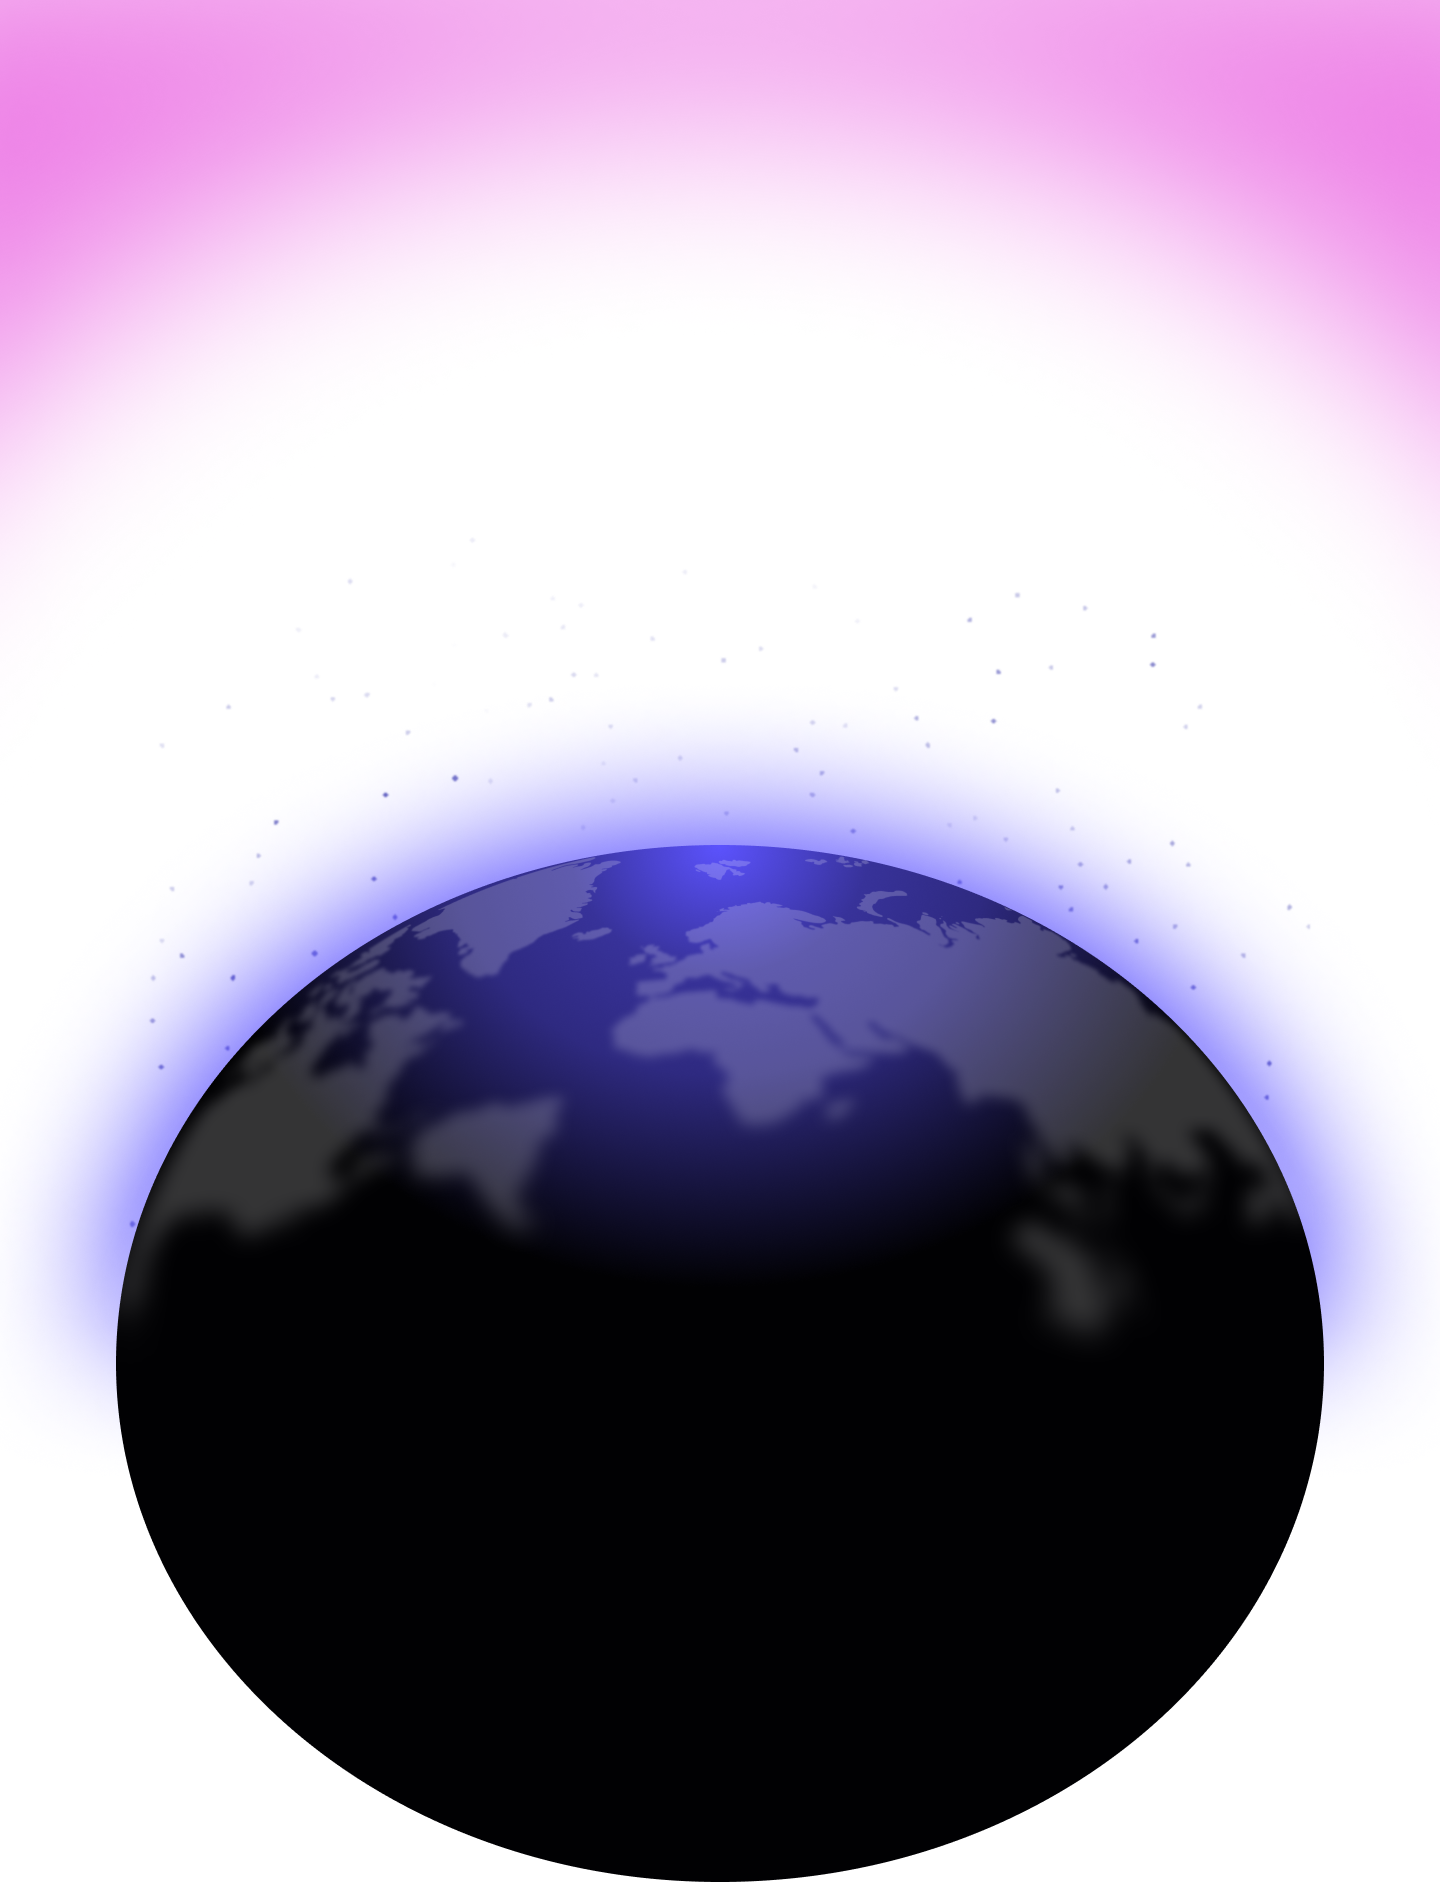
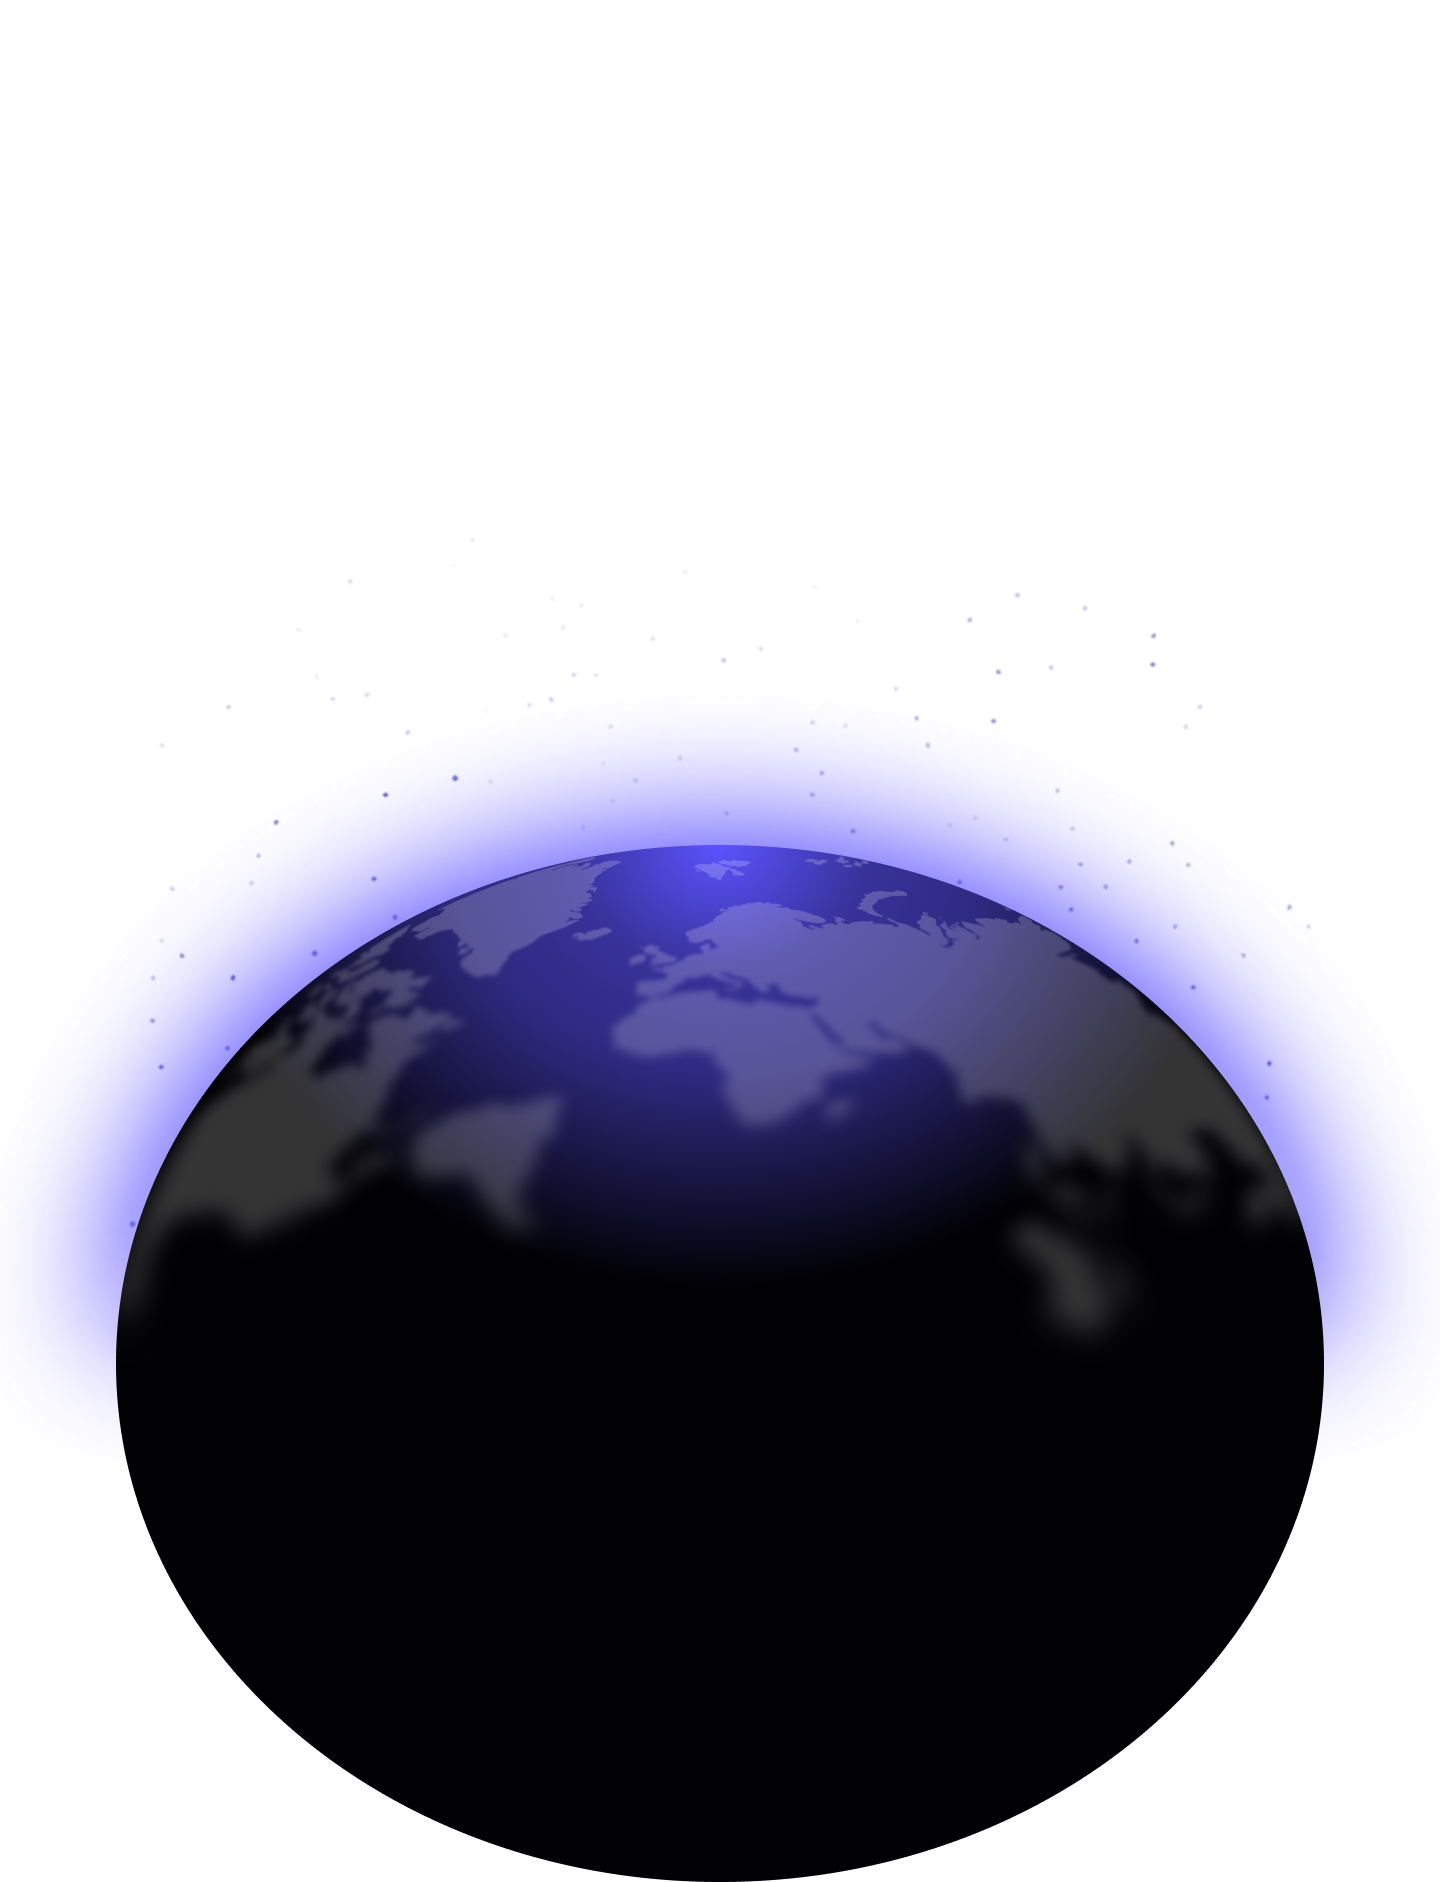
Add hero section with job search to homepage
- Create Hero component with globe background, glow/starfield effects
- Add job title and location search form that routes to /jobs with query params
- Add trending role chips and animated stats cards (jobs, companies, seekers)
- Render Hero from the homepage and update globe asset

Changed region(s): [[0.0, 0.0, 1.0, 0.2774]]

diff --git a/src/app/component/Hero.jsx b/src/app/component/Hero.jsx
@@ -1,0 +1,271 @@
+"use client";
+
+import Image from "next/image";
+import { useRouter } from "next/navigation";
+import { useState } from "react";
+
+const trendingRoles = ["Product Designer", "AI Engineering", "Dev-ops Engineer"];
+
+const stats = [
+  {
+    value: "50K",
+    label: "Active Jobs",
+    icon: (
+      <svg width="18" height="18" viewBox="0 0 24 24" fill="none" stroke="currentColor" strokeWidth="1.8" strokeLinecap="round" strokeLinejoin="round" aria-hidden="true">
+        <path d="M21 15a2 2 0 0 1-2 2H7l-4 4V5a2 2 0 0 1 2-2h14a2 2 0 0 1 2 2z" />
+      </svg>
+    ),
+  },
+  {
+    value: "12K",
+    label: "Companies",
+    icon: (
+      <svg width="18" height="18" viewBox="0 0 24 24" fill="none" stroke="currentColor" strokeWidth="1.8" strokeLinecap="round" strokeLinejoin="round" aria-hidden="true">
+        <rect x="3" y="7" width="18" height="13" rx="2" />
+        <path d="M8 7V5a2 2 0 0 1 2-2h4a2 2 0 0 1 2 2v2" />
+        <path d="M8 12v4M12 12v4M16 12v4" />
+      </svg>
+    ),
+  },
+  {
+    value: "2M",
+    label: "Job Seekers",
+    icon: (
+      <svg width="18" height="18" viewBox="0 0 24 24" fill="none" stroke="currentColor" strokeWidth="1.8" strokeLinecap="round" aria-hidden="true">
+        <circle cx="11" cy="11" r="7" />
+        <path d="m21 21-4.3-4.3" />
+      </svg>
+    ),
+  },
+  {
+    value: "97%",
+    label: "Satisfaction Rate",
+    icon: (
+      <svg width="18" height="18" viewBox="0 0 24 24" fill="none" stroke="currentColor" strokeWidth="1.8" strokeLinecap="round" strokeLinejoin="round" aria-hidden="true">
+        <path d="m12 3 2.7 5.5 6.1.9-4.4 4.3 1 6.1-5.4-2.9-5.4 2.9 1-6.1L3.2 9.4l6.1-.9L12 3Z" />
+      </svg>
+    ),
+  },
+];
+
+const starField = {
+  backgroundImage:
+    "radial-gradient(1.5px 1.5px at 20px 30px, rgba(255,255,255,0.45), transparent), radial-gradient(1.5px 1.5px at 130px 90px, rgba(255,255,255,0.35), transparent), radial-gradient(1px 1px at 220px 50px, rgba(255,255,255,0.4), transparent), radial-gradient(1.5px 1.5px at 310px 120px, rgba(255,255,255,0.3), transparent), radial-gradient(1px 1px at 90px 160px, rgba(255,255,255,0.35), transparent)",
+  backgroundSize: "360px 200px",
+};
+
+const Hero = () => {
+  const router = useRouter();
+  const [title, setTitle] = useState("");
+  const [location, setLocation] = useState("");
+
+  const handleSubmit = (event) => {
+    event.preventDefault();
+    const params = new URLSearchParams();
+    if (title.trim()) params.set("q", title.trim());
+    if (location.trim()) params.set("location", location.trim());
+    const query = params.toString();
+    router.push(query ? `/jobs?${query}` : "/jobs");
+  };
+
+  return (
+    <section className="relative isolate flex min-h-[calc(100vh-92px)] flex-col overflow-hidden bg-[#050506]">
+      {/* Globe background — sized to ~72% of the viewport, its top sitting at ~54%
+          of the hero height (falls back to bottom-anchored on tall/narrow screens). */}
+      <div aria-hidden="true" className="pointer-events-none absolute inset-0">
+        <div
+          className="absolute left-1/2 w-[72%] -translate-x-1/2"
+          style={{ top: "max(54% - 42.3vw, 100% - 94.1vw)" }}
+        >
+          <Image
+            src="/globe.png"
+            alt=""
+            width={1440}
+            height={1882}
+            priority
+            className="h-auto w-full select-none"
+          />
+        </div>
+      </div>
+
+      {/* Background glows */}
+      <div
+        aria-hidden="true"
+        className="pointer-events-none absolute inset-0"
+        style={{
+          background:
+            "radial-gradient(900px 420px at 50% -10%, rgba(139,139,160,0.18), transparent 70%), radial-gradient(700px 380px at 85% 40%, rgba(99,102,241,0.10), transparent 70%), radial-gradient(600px 320px at 10% 55%, rgba(255,255,255,0.06), transparent 70%)",
+        }}
+      />
+
+      {/* Star dots */}
+      <div
+        aria-hidden="true"
+        className="pointer-events-none absolute inset-x-0 bottom-0 h-64 opacity-70"
+        style={{
+          ...starField,
+          maskImage: "linear-gradient(to top, black 20%, transparent)",
+          WebkitMaskImage: "linear-gradient(to top, black 20%, transparent)",
+        }}
+      />
+
+      {/* Hero content */}
+      <div className="relative z-10 mx-auto flex w-full max-w-5xl flex-1 flex-col items-center px-4 pt-20 pb-8 text-center sm:px-6 sm:pt-28">
+        {/* Badge */}
+        <div className="flex items-center gap-4">
+          <span
+            aria-hidden="true"
+            className="hidden h-px w-16 bg-gradient-to-r from-transparent to-white/20 sm:block"
+          />
+          <div className="flex items-center gap-2.5 rounded-full border border-white/10 bg-[#141416] px-4 py-2 shadow-sm">
+            <span aria-hidden="true" className="text-base leading-none">
+              💼
+            </span>
+            <p className="font-mono text-xs tracking-widest sm:text-sm">
+              <span className="font-bold text-white">50,000+</span>{" "}
+              <span className="text-neutral-400">NEW JOBS THIS MONTH</span>
+            </p>
+          </div>
+          <span
+            aria-hidden="true"
+            className="hidden h-px w-16 bg-gradient-to-l from-transparent to-white/20 sm:block"
+          />
+        </div>
+
+        {/* Heading */}
+        <h1 className="mt-7 text-4xl font-bold leading-tight tracking-tight text-white sm:text-5xl md:text-6xl">
+          Find Your Dream Job Today
+        </h1>
+
+        {/* Subheading */}
+        <p className="mt-5 max-w-2xl text-sm leading-relaxed text-neutral-400 sm:text-base">
+          HireLoop connects top talent with world-class companies. Browse
+          thousands of curated opportunities and land your next role — faster.
+        </p>
+
+        {/* Search bar */}
+        <form
+          onSubmit={handleSubmit}
+          className="mt-10 flex w-full max-w-2xl items-center gap-2 rounded-2xl border border-white/10 bg-[#111113] p-2 pl-4 shadow-[0_8px_30px_rgba(0,0,0,0.45)]"
+        >
+          <div className="flex min-w-0 flex-1 items-center gap-3">
+            <svg
+              aria-hidden="true"
+              className="h-4 w-4 shrink-0 text-neutral-500"
+              viewBox="0 0 24 24"
+              fill="none"
+              stroke="currentColor"
+              strokeWidth="2"
+              strokeLinecap="round"
+            >
+              <circle cx="11" cy="11" r="7" />
+              <path d="m21 21-4.3-4.3" />
+            </svg>
+            <input
+              type="text"
+              value={title}
+              onChange={(event) => setTitle(event.target.value)}
+              placeholder="Job title, skill or company"
+              aria-label="Job title, skill or company"
+              className="w-full min-w-0 bg-transparent py-2.5 text-sm text-white placeholder:text-neutral-500 focus:outline-none"
+            />
+          </div>
+
+          <span aria-hidden="true" className="h-6 w-px bg-white/10" />
+
+          <div className="hidden min-w-0 flex-1 items-center gap-3 sm:flex">
+            <svg
+              aria-hidden="true"
+              className="h-4 w-4 shrink-0 text-neutral-500"
+              viewBox="0 0 24 24"
+              fill="none"
+              stroke="currentColor"
+              strokeWidth="2"
+              strokeLinecap="round"
+              strokeLinejoin="round"
+            >
+              <path d="M20 10c0 6-8 12-8 12s-8-6-8-12a8 8 0 0 1 16 0Z" />
+              <circle cx="12" cy="10" r="3" />
+            </svg>
+            <input
+              type="text"
+              value={location}
+              onChange={(event) => setLocation(event.target.value)}
+              placeholder="Location or Remote"
+              aria-label="Location or Remote"
+              className="w-full min-w-0 bg-transparent py-2.5 text-sm text-white placeholder:text-neutral-500 focus:outline-none"
+            />
+          </div>
+
+          <button
+            type="submit"
+            aria-label="Search jobs"
+            className="flex h-11 w-11 shrink-0 items-center justify-center rounded-xl bg-[#6d5df6] text-white transition-colors hover:bg-[#5b4be6] focus:outline-none focus-visible:ring-2 focus-visible:ring-indigo-400"
+          >
+            <svg
+              aria-hidden="true"
+              className="h-5 w-5"
+              viewBox="0 0 24 24"
+              fill="none"
+              stroke="currentColor"
+              strokeWidth="2"
+              strokeLinecap="round"
+            >
+              <circle cx="11" cy="11" r="7" />
+              <path d="m21 21-4.3-4.3" />
+            </svg>
+          </button>
+        </form>
+
+        {/* Trending chips */}
+        <div className="mt-6 flex flex-wrap items-center justify-center gap-2.5">
+          <span className="text-sm text-neutral-500">Trending: Position</span>
+          {trendingRoles.map((role) => (
+            <button
+              key={role}
+              type="button"
+              onClick={() => setTitle(role)}
+              className="rounded-lg border border-white/10 bg-[#17171a] px-3 py-1.5 text-xs text-neutral-300 transition-colors hover:border-white/20 hover:text-white sm:text-sm"
+            >
+              {role}
+            </button>
+          ))}
+        </div>
+
+        {/* Overlay headline (sits over the globe) */}
+        <p
+          className="mt-auto max-w-2xl px-4 pt-16 text-lg font-semibold leading-snug text-white sm:text-2xl md:text-3xl"
+          style={{ textShadow: "0 2px 16px rgba(0,0,0,0.65)" }}
+        >
+          Assisting over 15,000 job seekers
+          <br />
+          find their dream positions.
+        </p>
+      </div>
+
+      {/* Stats cards */}
+      <div className="relative z-10 mx-auto w-full max-w-7xl px-4 pb-8 sm:px-6 lg:px-8">
+        <div className="grid grid-cols-2 gap-3 md:grid-cols-4 md:gap-4">
+          {stats.map((stat) => (
+            <div
+              key={stat.label}
+              className="flex min-h-[150px] flex-col rounded-2xl border border-white/10 bg-gradient-to-b from-[#141416] to-[#0a0a0c] p-4 text-left shadow-[0_10px_30px_rgba(0,0,0,0.45)] sm:min-h-[190px] sm:p-5"
+            >
+              <span className="inline-flex text-neutral-300">{stat.icon}</span>
+              <div className="mt-auto pt-6">
+                <p className="text-3xl font-bold text-white sm:text-4xl md:text-5xl">
+                  {stat.value}
+                </p>
+                <p className="mt-1 text-xs text-neutral-400 sm:text-sm">
+                  {stat.label}
+                </p>
+              </div>
+            </div>
+          ))}
+        </div>
+      </div>
+    </section>
+  );
+};
+
+export default Hero;

diff --git a/src/app/page.js b/src/app/page.js
@@ -1,10 +1,11 @@
-import React from 'react';
+import React from "react";
+import Hero from "./component/Hero";
 
 const page = () => {
   return (
-    <div>
-      page
-    </div>
+    <main className="flex-1">
+      <Hero />
+    </main>
   );
 };
 
